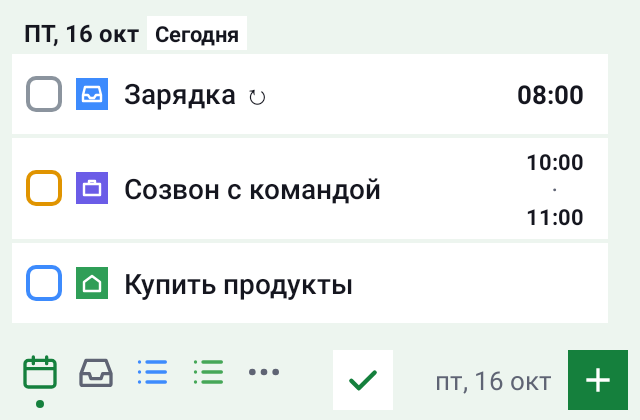
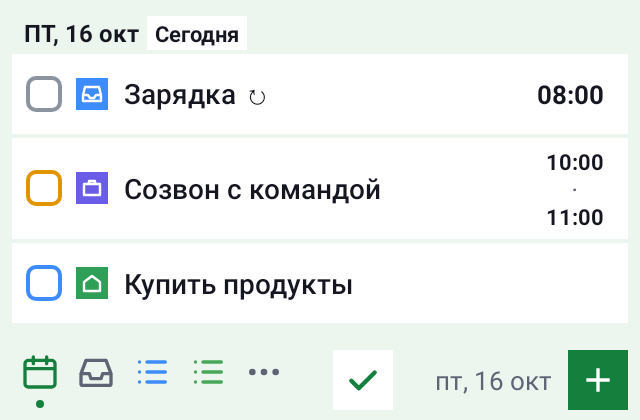
Доработка 0.19.3: линия прокрутки виджета у самого края, без пустой полосы
Список доходит до правого края виджета, правое поле плашек — у них самих.
Полоска справа от плашек (0.19.2) убрана: она давала пустое место, а линия
прокрутки оставалась на прежнем месте.

Claude-Session: https://claude.ai/code/session_01QAFyQLGgofusGNVqbtBoAp

Changed region(s): [[0.8125, 0.1857, 0.9688, 0.2476], [0.8125, 0.4952, 0.9688, 0.5571], [0.8125, 0.3714, 0.9688, 0.4024]]

diff --git a/app/src/main/java/com/prostovasei/simpletasks/widget/TasksWidget.kt b/app/src/main/java/com/prostovasei/simpletasks/widget/TasksWidget.kt
@@ -67,7 +67,9 @@ fun WidgetContent(model: WidgetModel, appWidgetId: Int, scrollable: Boolean = tr
             .background(WidgetColors.background)
             .cornerRadius(RadiusTokens.XL.dp),
     ) {
-        Box(GlanceModifier.fillMaxWidth().defaultWeight().padding(start = SizeTokens.WIDGET_EDGE.dp, end = SizeTokens.WIDGET_EDGE.dp, top = SizeTokens.WIDGET_EDGE.dp)) {
+        // Список доходит до самого правого края виджета: системная линия прокрутки лежит у края, а не на плашках;
+        // правое поле плашек — у них самих (DayBlock).
+        Box(GlanceModifier.fillMaxWidth().defaultWeight().padding(start = SizeTokens.WIDGET_EDGE.dp, top = SizeTokens.WIDGET_EDGE.dp)) {
             if (model.isEmpty) {
                 Box(GlanceModifier.fillMaxSize(), contentAlignment = Alignment.Center) {
                     Text(context.getString(R.string.widget_empty), style = TextStyle(color = WidgetColors.textSecondary, fontSize = 14.sp))
@@ -98,8 +100,8 @@ private val WidgetDay.id: Long
 /** Блок дня (итерация 14, как в приложении): подпись дня, под ней — отдельные белые плашки задач через щель 2 dp. */
 @Composable
 private fun DayBlock(block: WidgetDayBlock, isFirst: Boolean, model: WidgetModel, days: DayNames) {
-    // Справа — свободная полоска для линии прокрутки (она рисуется системой по краю списка).
-    Column(GlanceModifier.fillMaxWidth().padding(end = SizeTokens.WIDGET_SCROLL_GUTTER.dp)) {
+    // Правое поле плашек; за ним, у самого края виджета, — системная линия прокрутки.
+    Column(GlanceModifier.fillMaxWidth().padding(end = SizeTokens.WIDGET_EDGE.dp)) {
         DayTitle(block.day, model.today, isFirst)
         // Одно место в колонке дня занимает подпись.
         ManyRows(block.items.withIndex().toList(), limit = MAX_CHILDREN - 1) { (index, item) ->

diff --git a/app/src/main/java/com/prostovasei/simpletasks/designsystem/tokens/DimensionTokens.kt b/app/src/main/java/com/prostovasei/simpletasks/designsystem/tokens/DimensionTokens.kt
@@ -75,9 +75,6 @@ object SizeTokens {
 
     /** Поля ленты виджета от краёв. */
     const val WIDGET_EDGE = 6
-
-    /** Свободная полоска справа у плашек: в ней системная линия прокрутки списка, а не поверх времени. */
-    const val WIDGET_SCROLL_GUTTER = 10
     const val COLOR_SWATCH = 40
     const val ICON = 24
     const val CHECKBOX_TOUCH = 40
